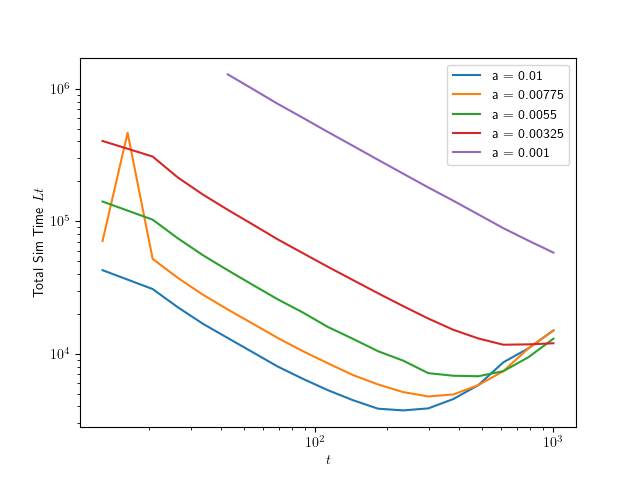
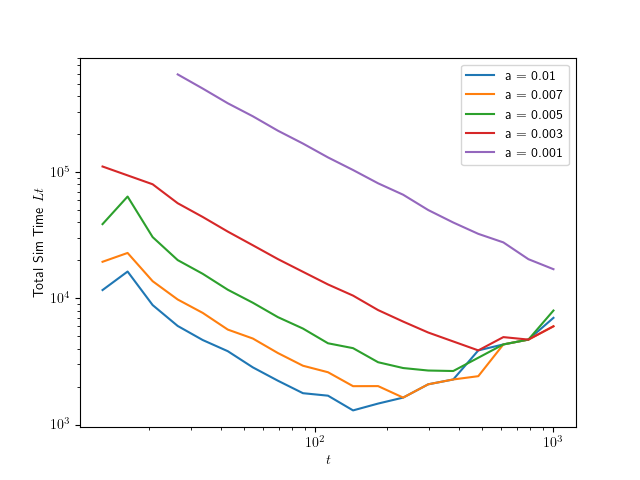
final pic

diff --git a/numerics/qhmc.py b/numerics/qhmc.py
@@ -503,4 +503,19 @@ def plot_sho_interaction_v_beta():
 
 if __name__ == "__main__":
     start = time_this.time()
-    plot_sho_tot_time_vs_time()
+    # plot_sho_tot_time_vs_time()
+    with open('/Users/matt/repos/thermal_state_prep/numerics/data/t_vs_tot_time.json', 'r') as f:
+        results = json.load(f)
+        
+    for k,v in results.items():
+        print("alpha: ", k)
+        print("results: ", v)
+        x, y = zip(*v)
+        plt.plot(x, y, label='a = {:.5}'.format(k))
+    plt.yscale('log')
+    plt.xscale('log')
+    plt.xlabel(r"$t$")
+    # plt.title("Total simulation time for dim = 4 Harmonic Oscillator to cool to beta = 4 vs time per interaction")
+    plt.ylabel("Total Sim Time $L t$")
+    plt.legend(loc="upper right")
+    plt.show()
